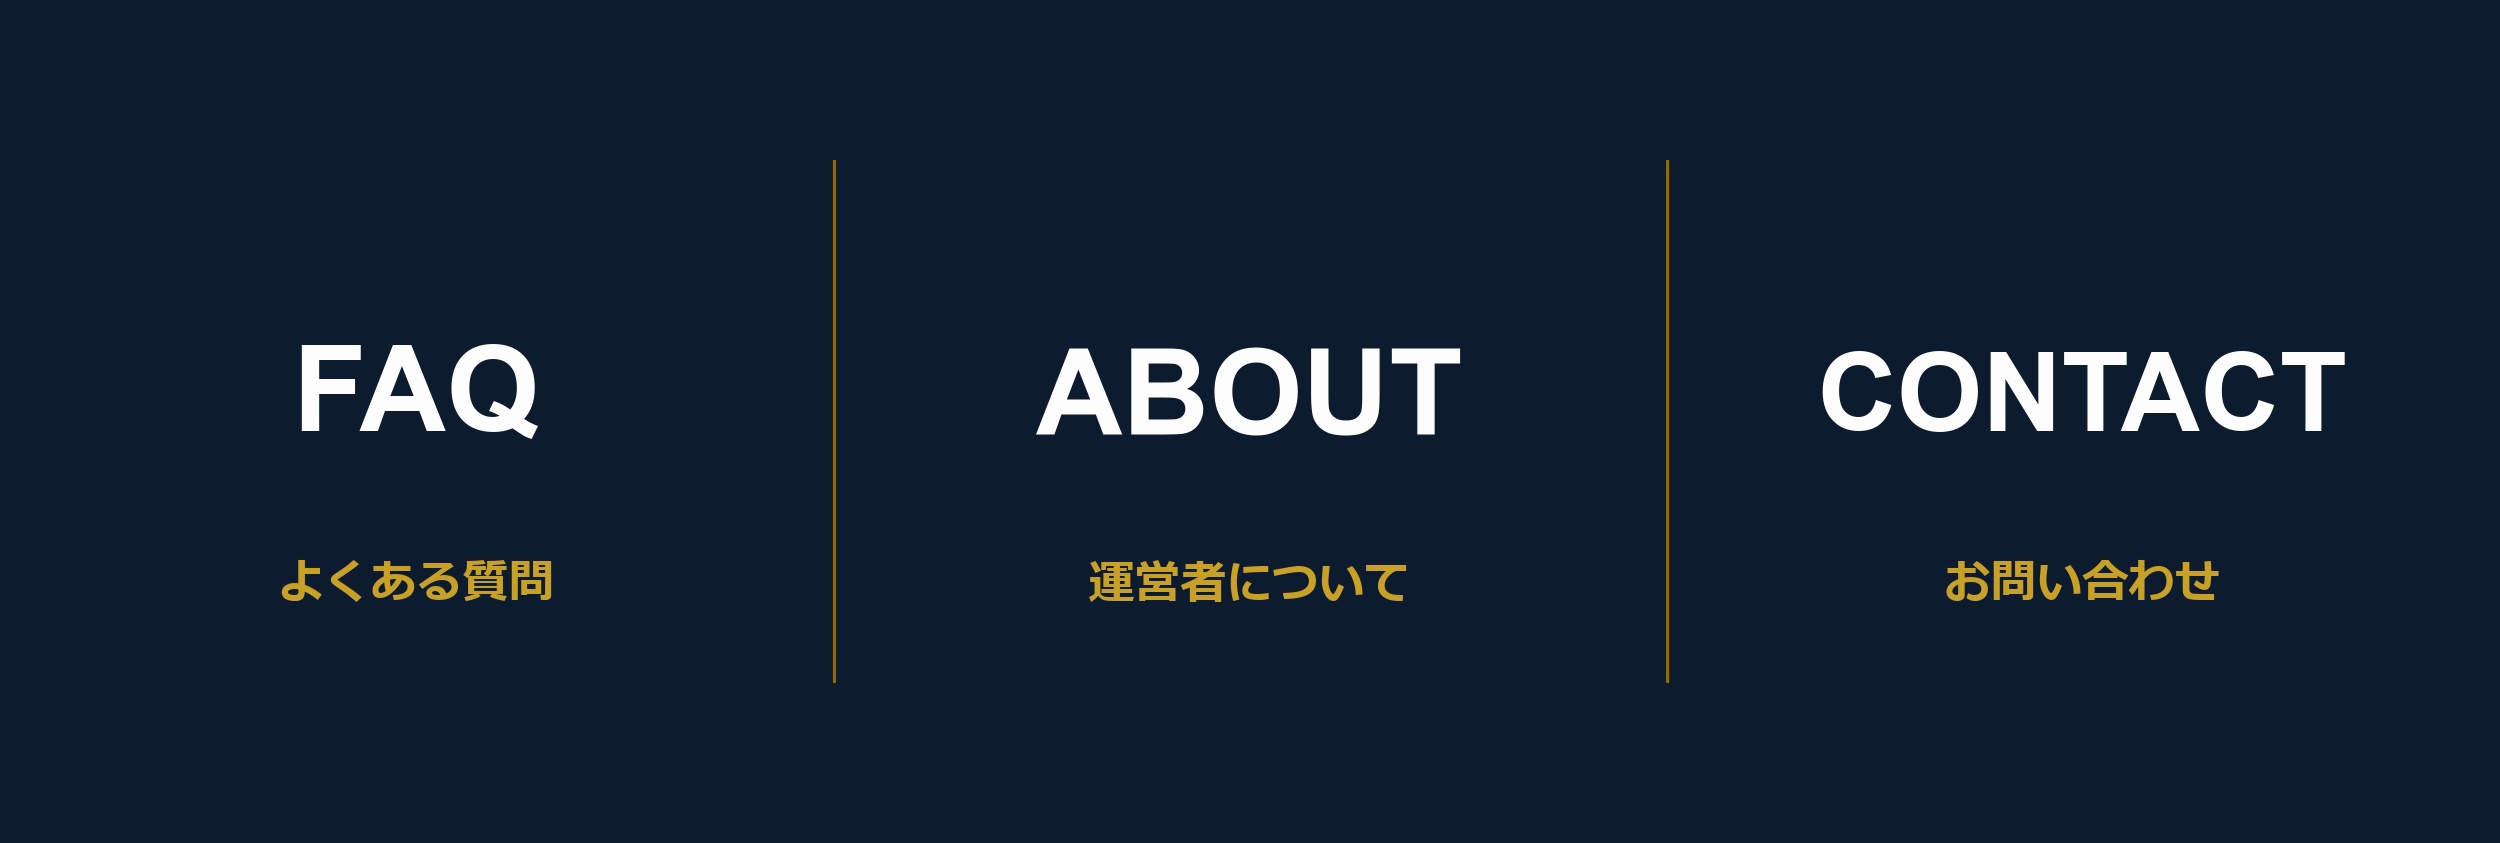
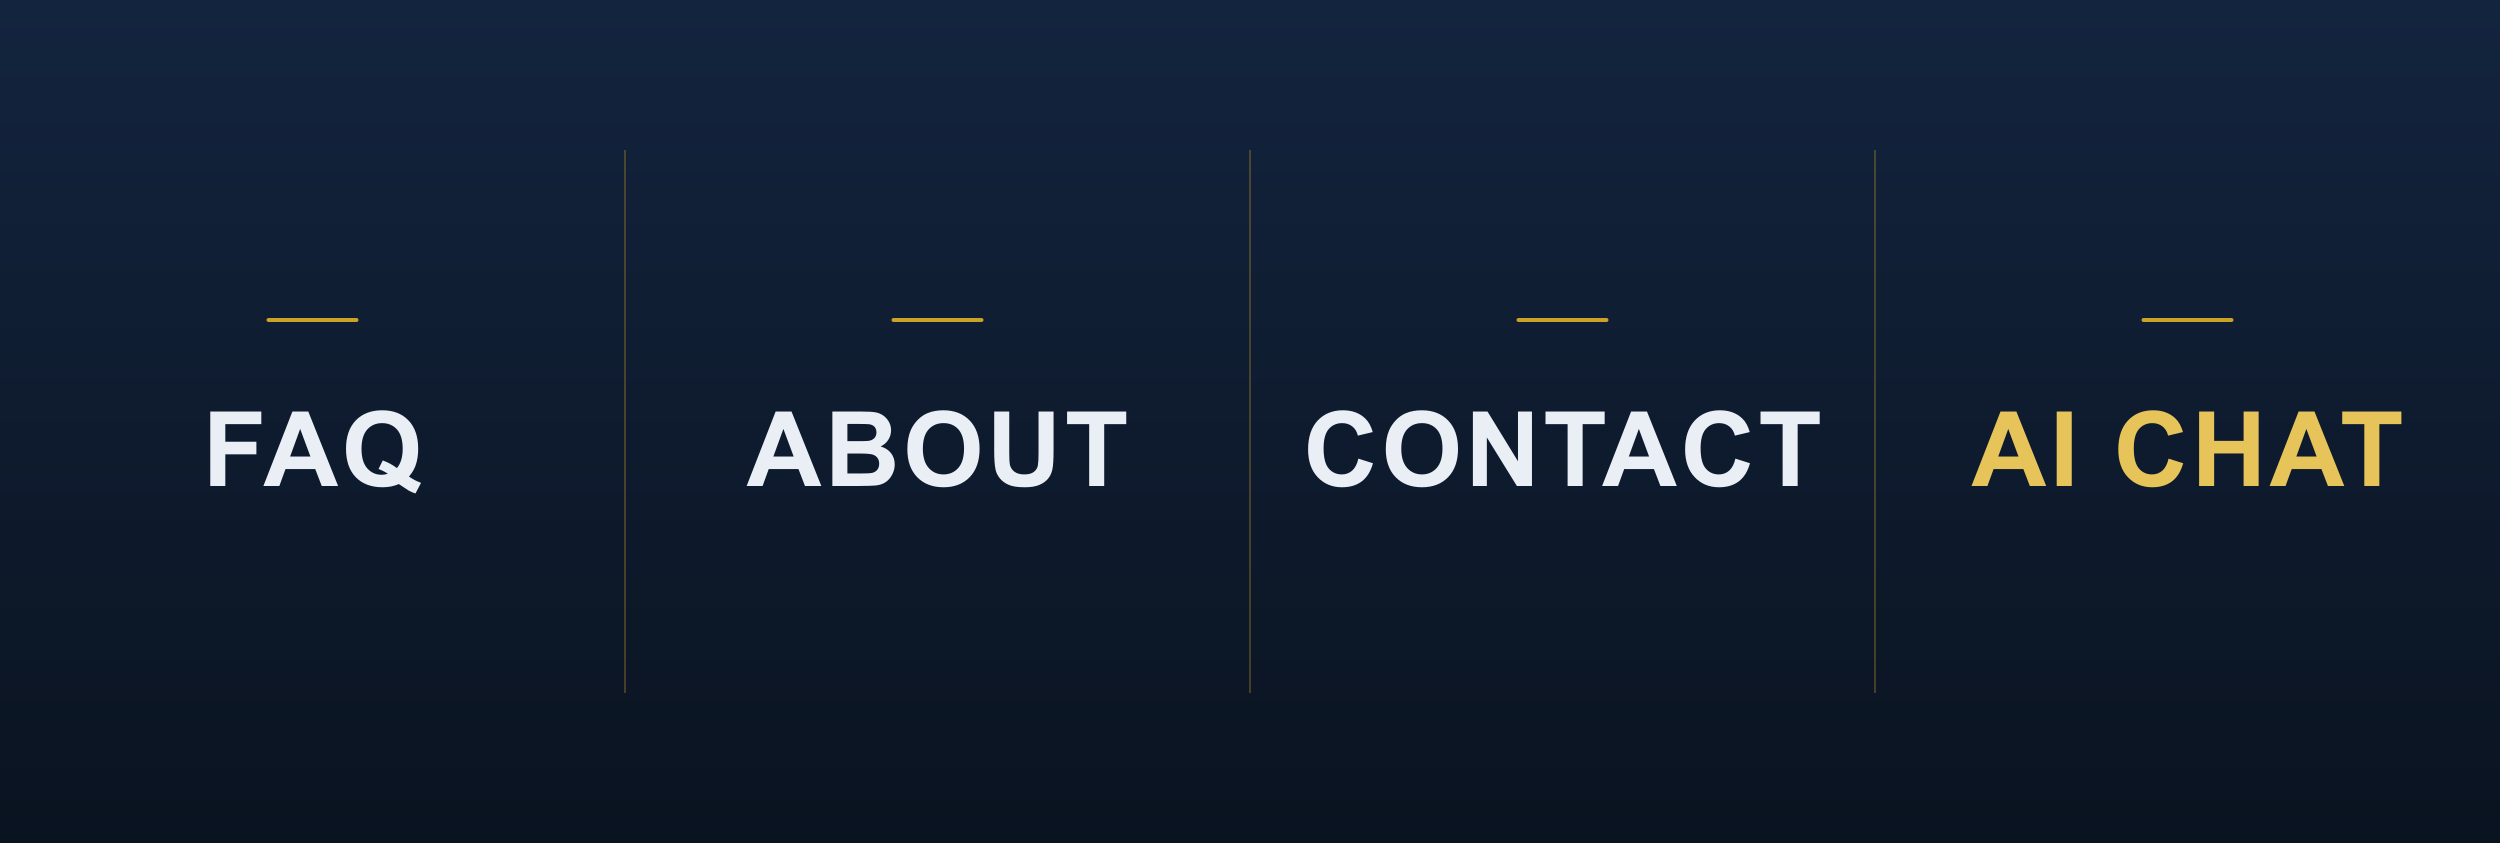
Rich menu: add AI CHAT button (4 columns) + new navy/gold image
- New 4-column rich-menu image (FAQ/ABOUT/CONTACT/AI CHAT, AI CHAT in gold).
- setup.ts: 4 areas of 625px; AI CHAT = postback menu=ai.
- postback handler: menu=ai sends an AI-chat intro (then free text -> concierge).

diff --git a/src/features/richmenu/setup.ts b/src/features/richmenu/setup.ts
@@ -6,8 +6,9 @@ import { serverEnv } from "@/src/config/env";
  * and set it as the default for all users. Idempotent-ish: deletes existing
  * menus first so re-running replaces rather than piling up.
  *
- * Layout (2500x843, three equal columns):
- *   [ FAQ ] [ ABOUT ] [ CONTACT ]  -> each sends a postback handled in the webhook
+ * Layout (2500x843, four equal columns of 625px):
+ *   [ FAQ ] [ ABOUT ] [ CONTACT ] [ AI CHAT ]
+ *   FAQ/ABOUT/CONTACT -> web pages (uri); AI CHAT -> postback (menu=ai).
  */
 export async function setupRichMenu(): Promise<{ richMenuId: string }> {
   const client = lineClient();
@@ -30,19 +31,24 @@ export async function setupRichMenu(): Promise<{ richMenuId: string }> {
       chatBarText: "メニュー",
       areas: [
         {
-          // left = FAQ -> /faq page
-          bounds: { x: 0, y: 0, width: 833, height: 843 },
+          // FAQ -> /faq page
+          bounds: { x: 0, y: 0, width: 625, height: 843 },
           action: { type: "uri", label: "FAQ", uri: `${base}/faq` },
         },
         {
-          // middle = ABOUT -> /about page
-          bounds: { x: 833, y: 0, width: 834, height: 843 },
+          // ABOUT -> /about page
+          bounds: { x: 625, y: 0, width: 625, height: 843 },
           action: { type: "uri", label: "ABOUT", uri: `${base}/about` },
         },
         {
-          // right = CONTACT -> /contact page
-          bounds: { x: 1667, y: 0, width: 833, height: 843 },
+          // CONTACT -> /contact page
+          bounds: { x: 1250, y: 0, width: 625, height: 843 },
           action: { type: "uri", label: "CONTACT", uri: `${base}/contact` },
+        },
+        {
+          // AI CHAT -> postback (handled in the webhook -> AI concierge intro)
+          bounds: { x: 1875, y: 0, width: 625, height: 843 },
+          action: { type: "postback", label: "AI CHAT", data: "menu=ai", displayText: "AIに相談する" },
         },
       ],
     })

diff --git a/src/features/webhook/handlers/postback.ts b/src/features/webhook/handlers/postback.ts
@@ -13,6 +13,19 @@ export async function handlePostback(event: PostbackEvent): Promise<void> {
     return handleReregisterYes(event.source.userId, event.replyToken);
   }
 
+  // rich menu「AI CHAT」-> invite the user to type (their next messages hit the AI)
+  if (data === "menu=ai") {
+    const msg: messagingApi.Message = {
+      type: "text",
+      text:
+        "AI相談へようこそ。\n" +
+        "資産形成や当サービスについて、ご質問をそのまま入力してください。AIが一般的なご案内をいたします。\n" +
+        "※具体的な税務・投資のご相談は、ゆか姉（税理士）がうけたまわります。",
+    };
+    await replyOrPush(event.source.userId, event.replyToken, [msg]);
+    return;
+  }
+
   // existing member kept their registration -> gentle, reassuring reply
   if (data === "action=reregister_no") {
     const msg: messagingApi.Message = {